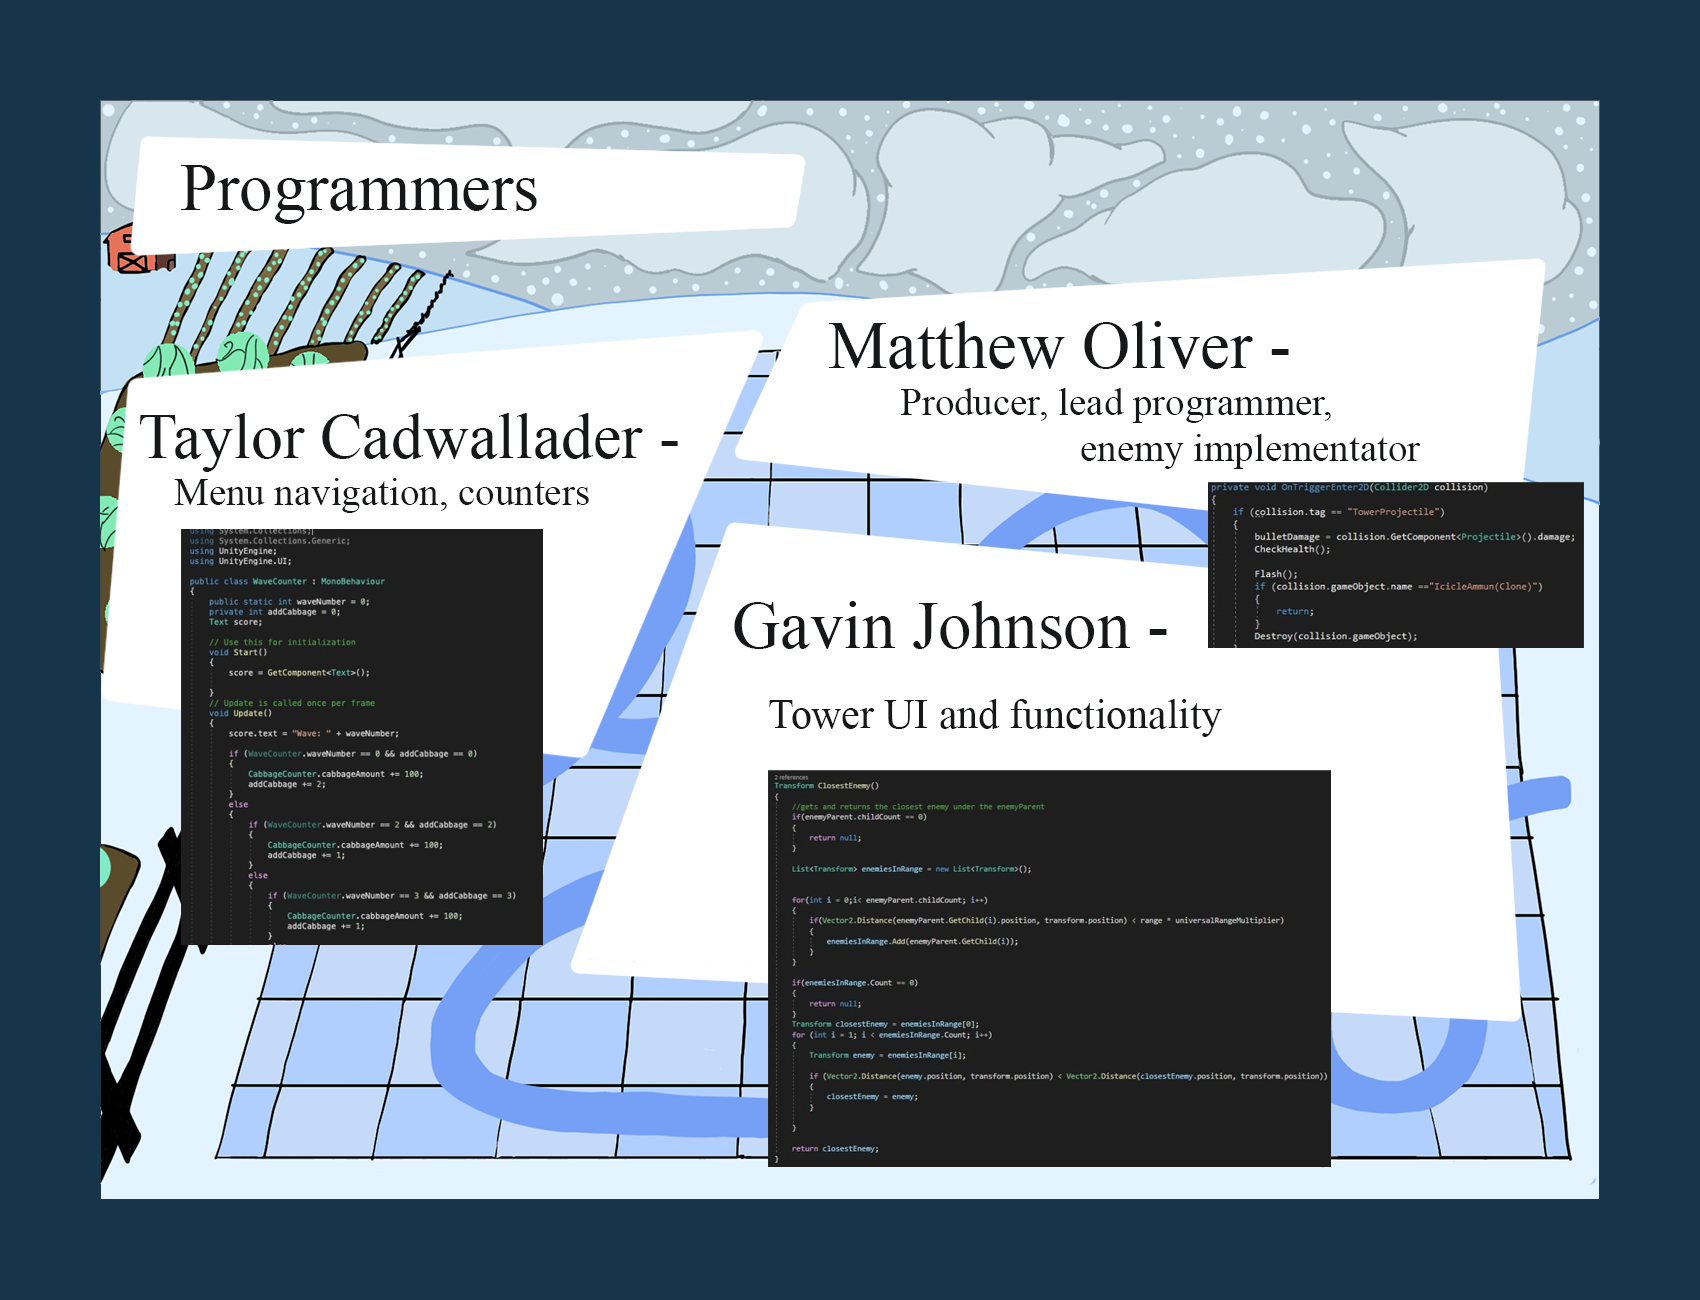
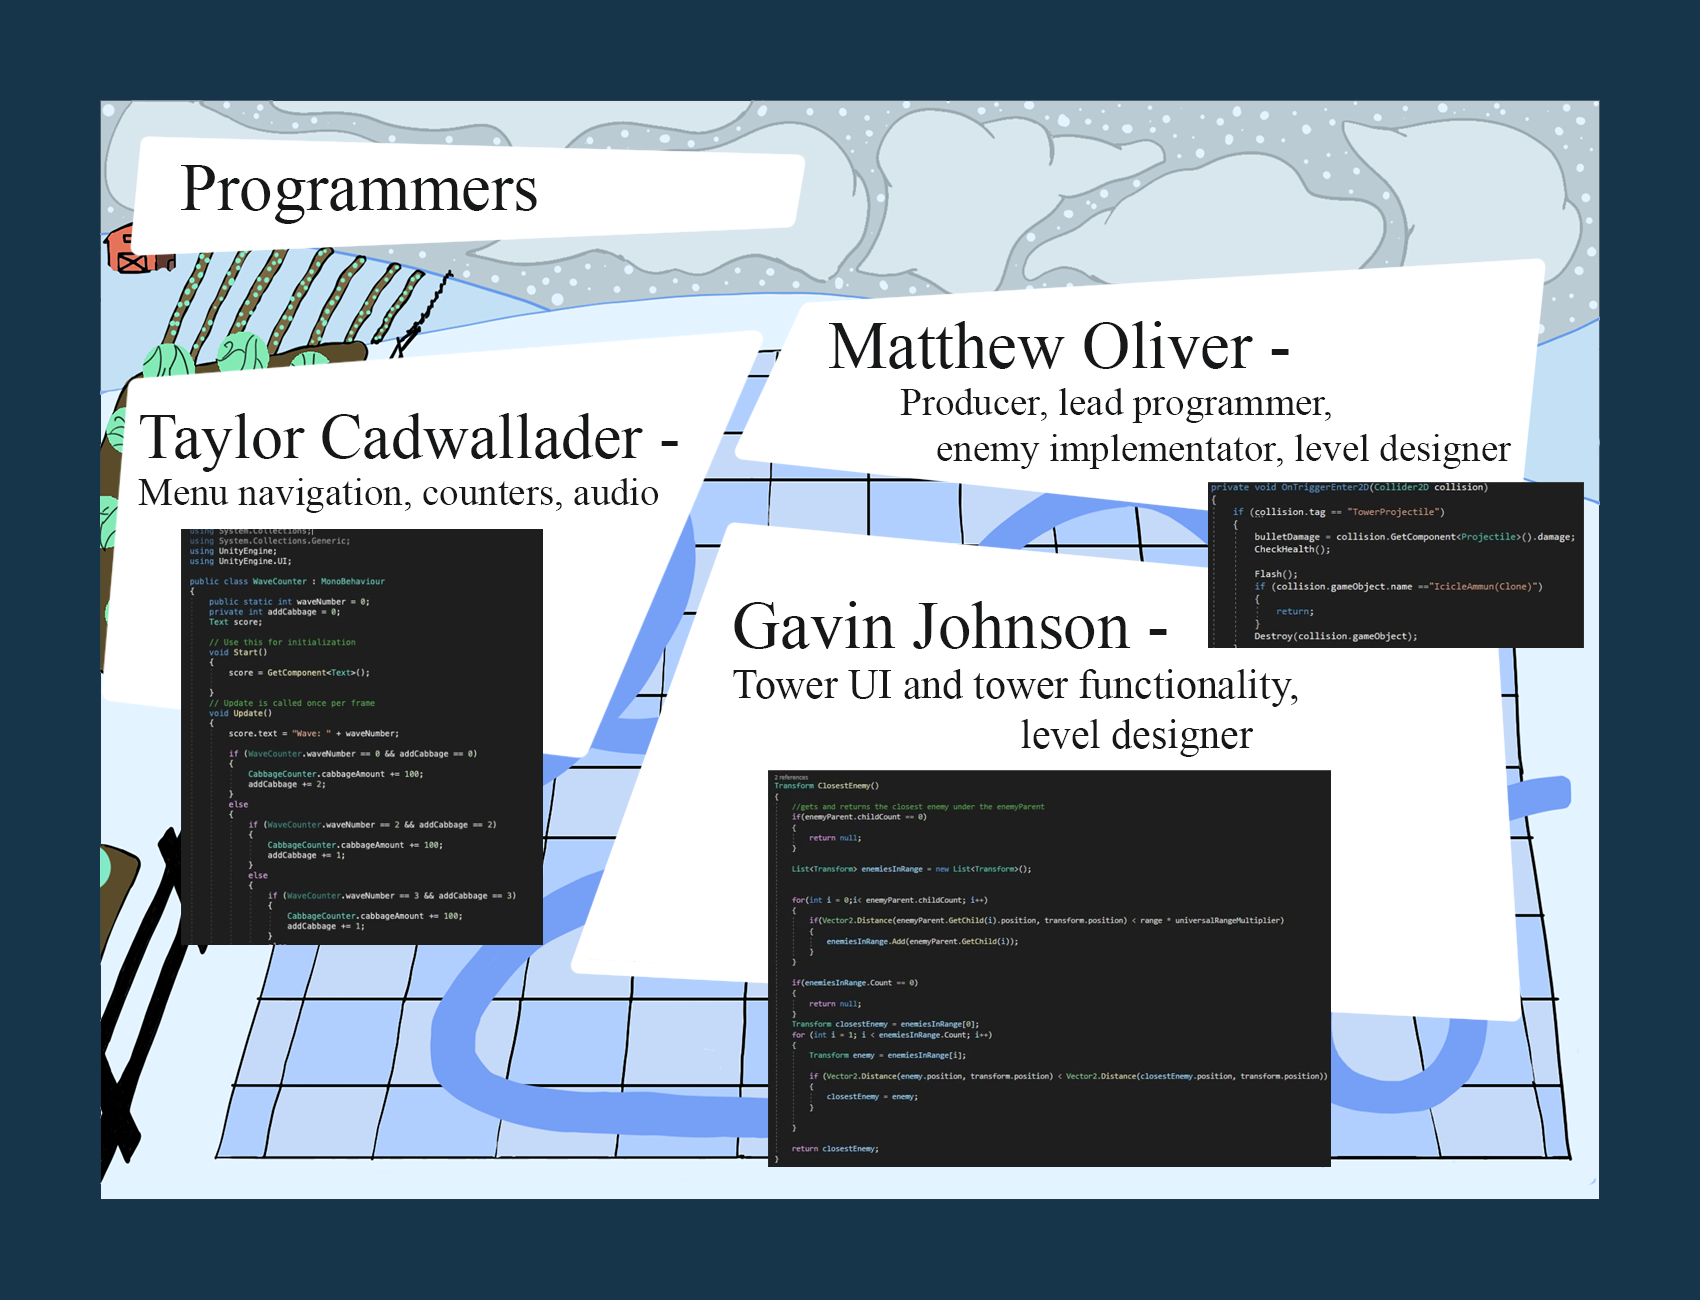
Added new credits and found an issue that may be one of the reasons the game breaks

Changed region(s): [[0.4365, 0.5231, 0.7482, 0.5846], [0.5612, 0.3385, 0.9041, 0.3692], [0.0935, 0.3692, 0.3741, 0.4]]

diff --git a/Assets/Taylor/Scripts/EnemyFarmCollision.cs b/Assets/Taylor/Scripts/EnemyFarmCollision.cs
@@ -50,17 +50,5 @@ public class EnemyFarmCollision : MonoBehaviour
         currentFarmHealth -= damage;
 
         farmHealthBar.SetHealth(currentFarmHealth);
-
-        Scene currentScene = SceneManager.GetActiveScene();
-        string sceneName = currentScene.name;
-
-        if (currentFarmHealth == 0 && sceneName == "Demo")
-        {
-            SceneManager.LoadScene("GameOver");
-        }
-        else if (currentFarmHealth == 0 && sceneName == "Level2")
-        {
-            SceneManager.LoadScene("GameOver2");
-        }
     }
 }

diff --git a/Assets/Taylor/Scripts/WaveCounter.cs b/Assets/Taylor/Scripts/WaveCounter.cs
@@ -210,17 +210,5 @@ public class WaveCounter : MonoBehaviour
         {
 
         }
-
-        Scene currentScene = SceneManager.GetActiveScene();
-        string sceneName = currentScene.name;
-
-        if (WaveCounter.waveNumber == 11 && sceneName == "Demo")
-        {
-            SceneManager.LoadScene("VictoryScreen");
-        }
-        else if (WaveCounter.waveNumber == 11 && sceneName == "Level2")
-        {
-            SceneManager.LoadScene("FinalVictory");
-        }
     }
 }
